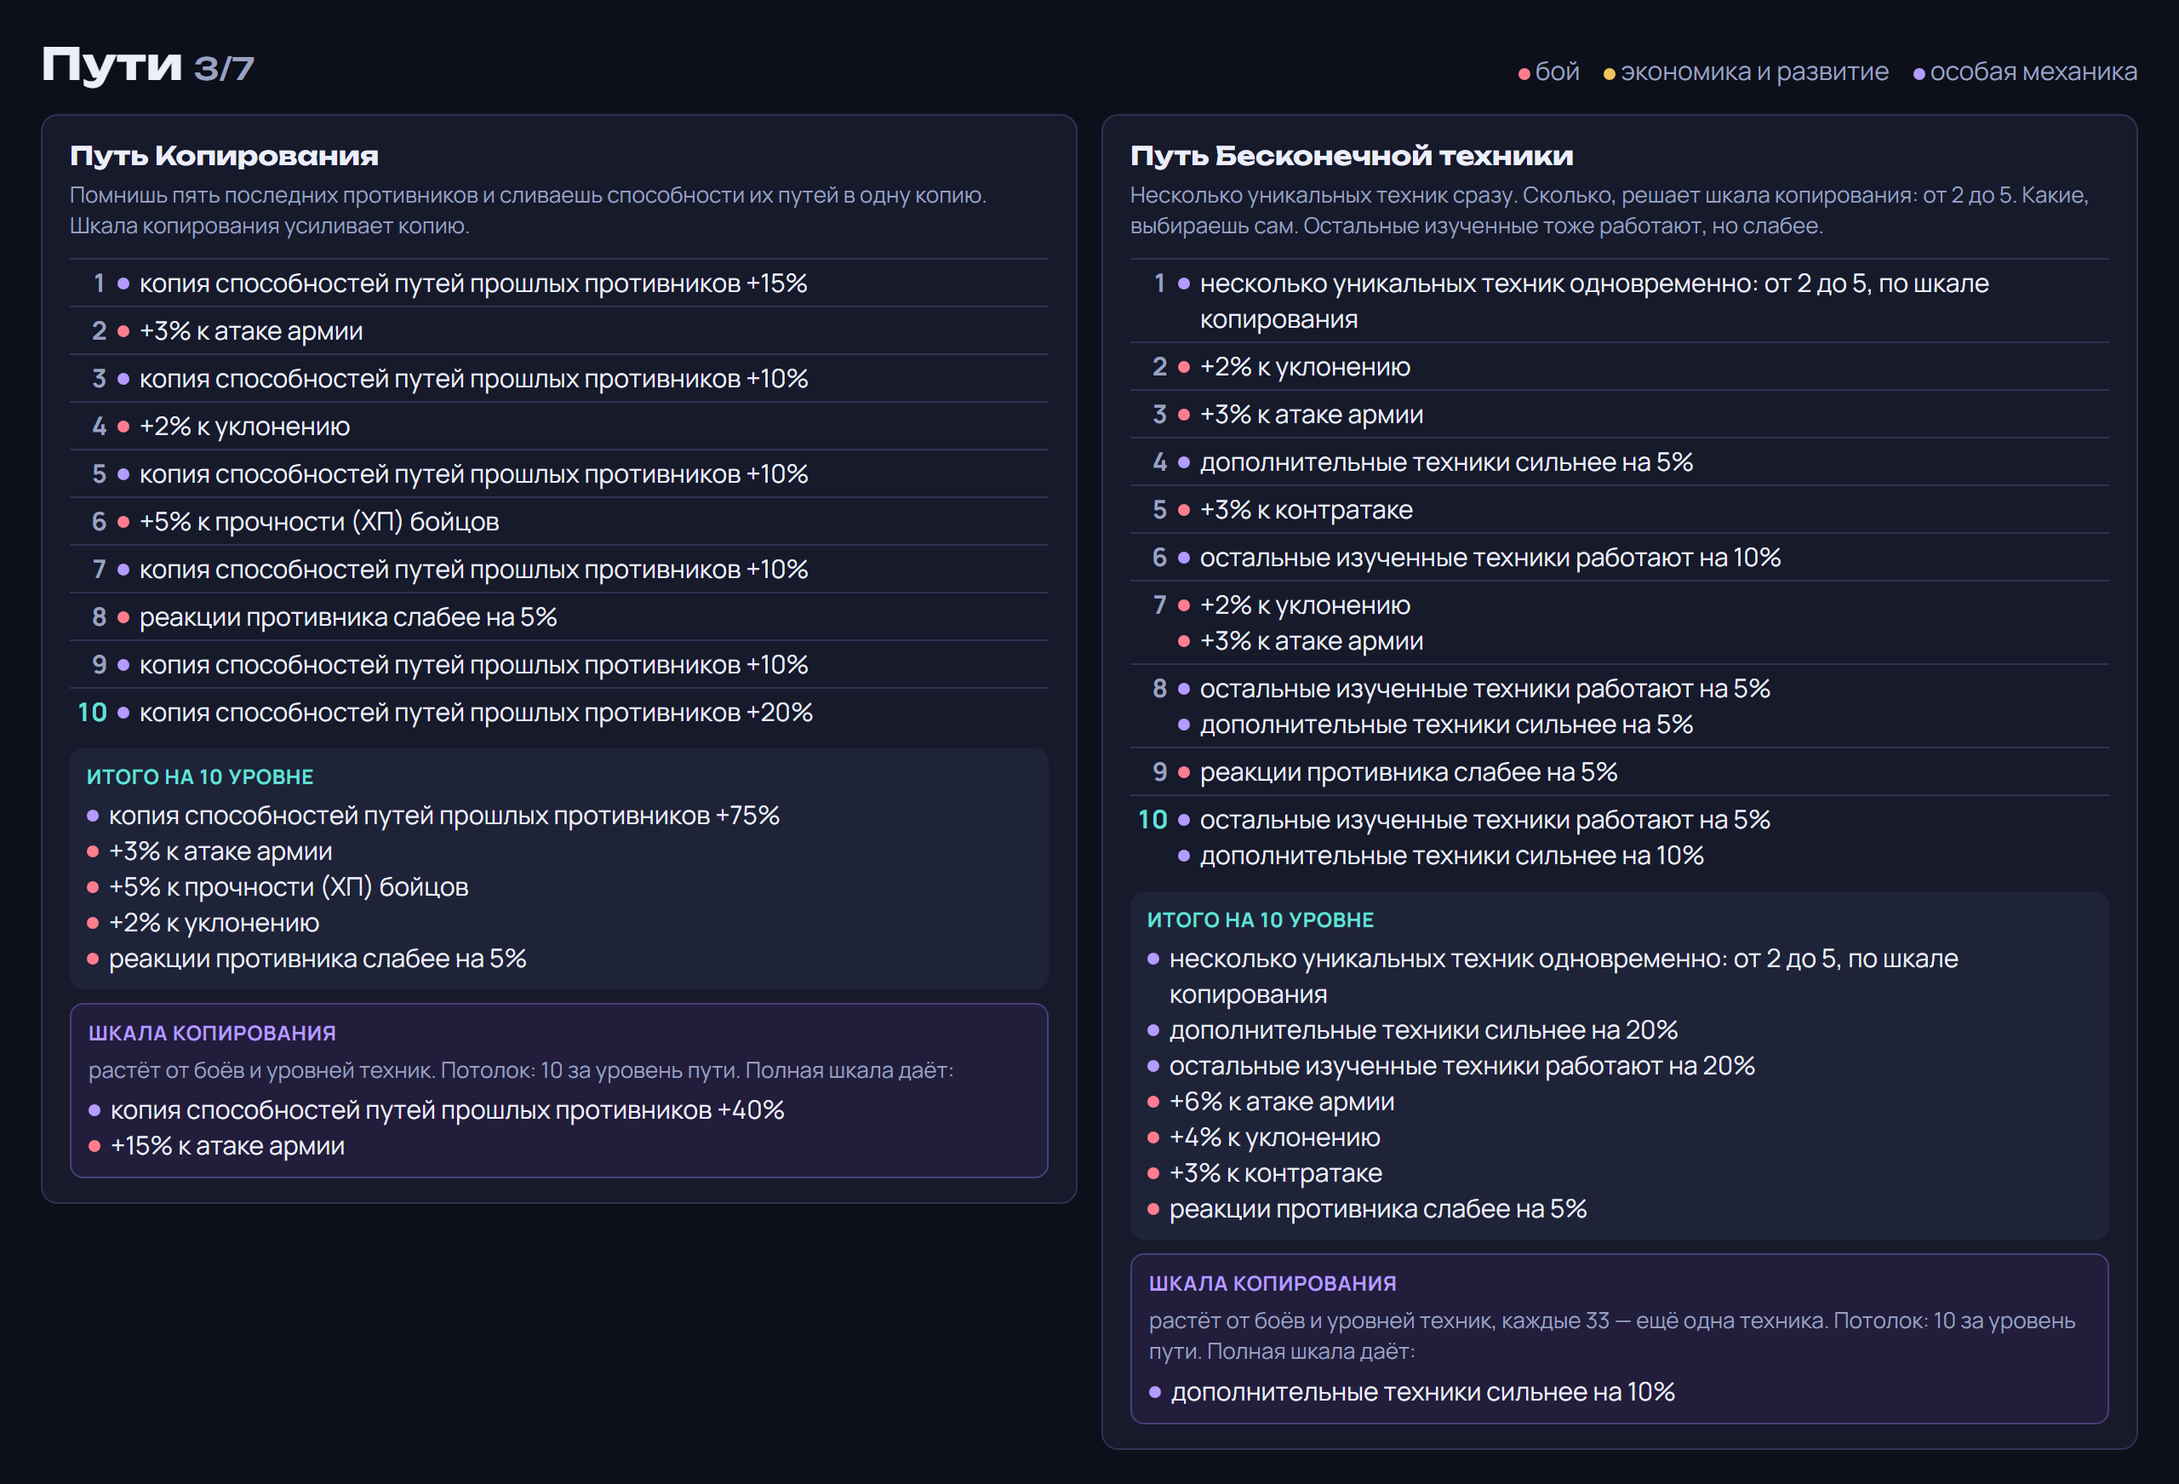
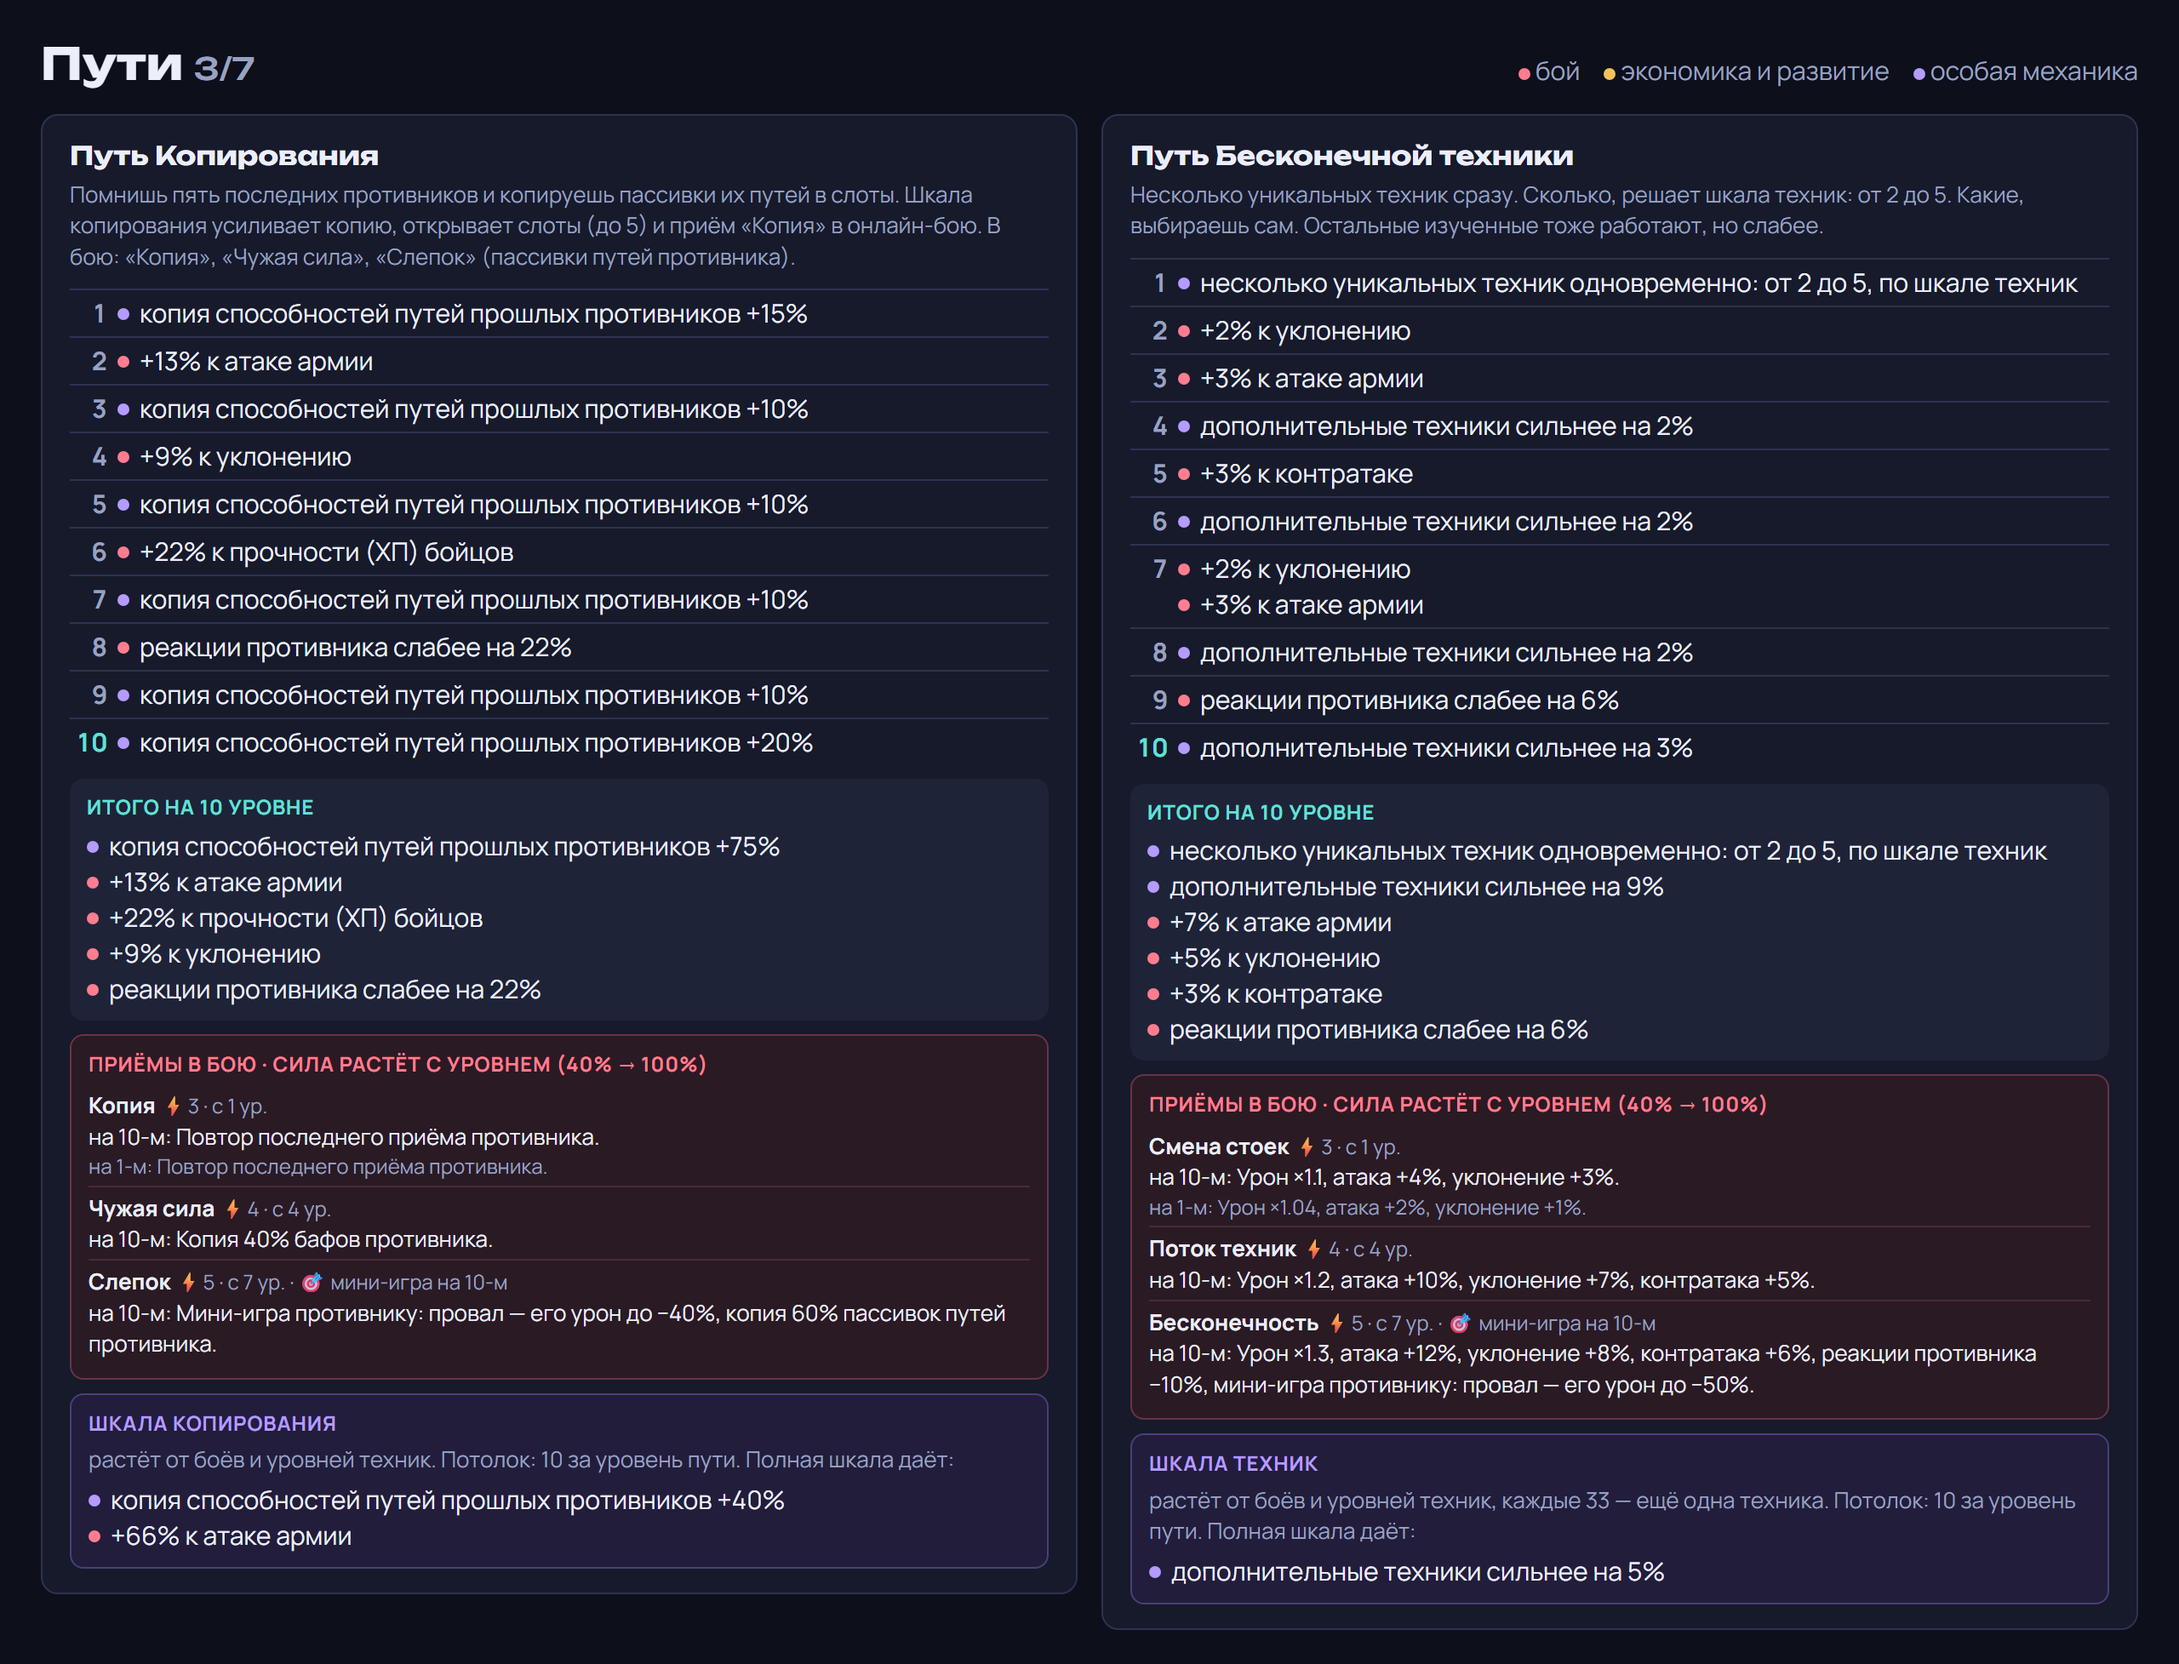
feat(guide): листы родословных и путей v3 — приёмы в бою на каждой карточке; потолки приёмов, Муджин без среза пассивок
- листы гайда пересобраны из конфига: блок «Приёмы в бою» (на 1-м и 10-м уровне), шкалы Сенсорики/Бизнесмена по-новому
- любая доля в приёме ≤60% (атака/прочность ≤80%): у экономических веток ×1.6 давало «реакции −96%»
- Муджин: боевые пассивки прежние, режется только мощь бойцов (симуляция 58% — уровень Джинёна)

Changed region(s): [[0.0312, 0.031, 0.5, 0.9604], [0.5, 0.031, 1.0, 0.9914]]

diff --git a/src/bot/config/arena/branches.py b/src/bot/config/arena/branches.py
@@ -199,6 +199,8 @@ CAP_DAMAGE = 3.0
 CAP_ENEMY_DAMAGE = 0.35  # урон противника не ниже ×0.35
 CAP_MINIGAME_POWER = 0.6
 CAP_HEAL = 0.6
+CAP_MOD = 0.6  # любая доля приёма (уклонение, пробитие, подавление…)
+CAP_MOD_BIG = 0.8  # атака и прочность
 
 
 def _kept_path_moves(levels: dict, code: str) -> tuple[BranchMove, ...]:
@@ -214,9 +216,17 @@ def _kept_path_moves(levels: dict, code: str) -> tuple[BranchMove, ...]:
 
 
 def _cap_mods(mods: CombatMods) -> CombatMods:
-    from dataclasses import replace
+    """Любая доля в приёме — не выше 60% (атака и прочность — 80%): иначе усиление ветки даёт «реакции −96%»."""
+    from dataclasses import fields, replace
 
-    return replace(mods, heal=min(CAP_HEAL, mods.heal)) if mods.heal > CAP_HEAL else mods
+    capped = {}
+    for f in fields(mods):
+        v = getattr(mods, f.name)
+        if isinstance(v, float):
+            cap = CAP_MOD_BIG if f.name in ("attack", "durability") else CAP_HEAL if f.name == "heal" else CAP_MOD
+            if v > cap:
+                capped[f.name] = cap
+    return replace(mods, **capped) if capped else mods
 
 
 def _up(x: float, k: float) -> float:
@@ -263,7 +273,7 @@ def _perk(kind: str, code: str, n: int, mv: BranchMove, level: int, idx: int, bo
     game = ((_SELF_GAMES if mv.minigame_self else _ENEMY_GAMES)[idx % 4]) if top else None
     p = Perk(
         code=f"{kind}:{code}:{n}@{level}", name=mv.name, about="", cost=BRANCH_COST[n - 1], cooldown=BRANCH_COOLDOWN[n - 1],
-        self_mods=_cap_mods(mv.mods.scale(k)), enemy_mods=mv.enemy.scale(k), damage=min(CAP_DAMAGE, _up(mv.damage, k)),
+        self_mods=_cap_mods(mv.mods.scale(k)), enemy_mods=_cap_mods(mv.enemy.scale(k)), damage=min(CAP_DAMAGE, _up(mv.damage, k)),
         enemy_damage=max(CAP_ENEMY_DAMAGE, _down(mv.enemy_damage, k)),
         minigame=minigame, game=game, power=min(CAP_MINIGAME_POWER, mv.power * boost) if top else 0.0,
         first_round_damage=_up(mv.first_round_damage, k) if mv.first_round_damage else 0.0,

diff --git a/src/bot/config/bloodline/bloodline.py b/src/bot/config/bloodline/bloodline.py
@@ -222,8 +222,8 @@ for _code, _k in {"mujin": 0.558, "jinyeong": 0.696, "gapryong": 2.379, "yamazak
     BLOODLINE_BALANCE[_code] = round(BLOODLINE_BALANCE.get(_code, 1.0) * _k, 3)
 # Родословные v3 (2026-11-24): та же симуляция, цель — уровень популярных Ямадзаки и Джинёна (~55%). Муджин был
 # сильнейшим (87% побед) из-за «мощи каждого бойца» (+37% на 10-м) — она не проходит через боевой множитель, поэтому
-# режется отдельно (`MUJIN_ARMY_POWER_BALANCE`).
-for _code, _k in {"elite": 2.827, "mujin": 0.289, "sophia": 0.844, "kuroda": 1.323}.items():
+# режется отдельно (`MUJIN_ARMY_POWER_BALANCE`); боевые пассивки Муджина не тронуты (с ними 58% — уровень Джинёна).
+for _code, _k in {"elite": 2.827, "sophia": 0.844, "kuroda": 1.323}.items():
     BLOODLINE_BALANCE[_code] = round(BLOODLINE_BALANCE.get(_code, 1.0) * _k, 3)
 MUJIN_ARMY_POWER_BALANCE = 0.289
 LEVELS = scale_levels(LEVELS, BLOODLINE_BALANCE)

diff --git a/CLAUDE.md b/CLAUDE.md
@@ -3371,7 +3371,7 @@ NHCoin → статисты → бизнес, не хватило — замор
   доход до +80% вместо плоских 300–1 500/ч, небольшие прочность/атака, шкала от часов дохода (`GAUGE_BUSINESS_PER_HOUR`).
 - **Баланс — симуляцией** (скрипт прошлого этапа 6 на отдельной базе `lbp_sim`, 150 билдов 10 ур. × 30 соперников,
   автобой с приёмами). Выяснилось: при равных армиях сила приёмов почти не решает — решают пассивки; Муджин был 87% из-за
-  «мощи каждого бойца» (+37%), она теперь ×0.289 (`MUJIN_ARMY_POWER_BALANCE`). Цель — уровень популярных (~55%), не 50%.
+  «мощи каждого бойца» (+37%), она теперь ×0.289 (`MUJIN_ARMY_POWER_BALANCE`), его боевые пассивки прежние (58%). Цель — уровень популярных (~55%), не 50%.
   Итог: переделанные боевые ветки 48–56% при популярных 50–58%; экономические в чистом бою 37–46% (доход, контракты, КПД
   и метки симуляция не видит) — им приёмы ×1.6 (`BRANCH_BOOST`). Множители — `PATH_BALANCE`/`BLOODLINE_BALANCE` (блок v3).
 - **Интерфейс**: блок «⚔ Приёмы в бою» на экранах веток (бот, оба тела) и в Mini App (`moves` в API развития, и у
